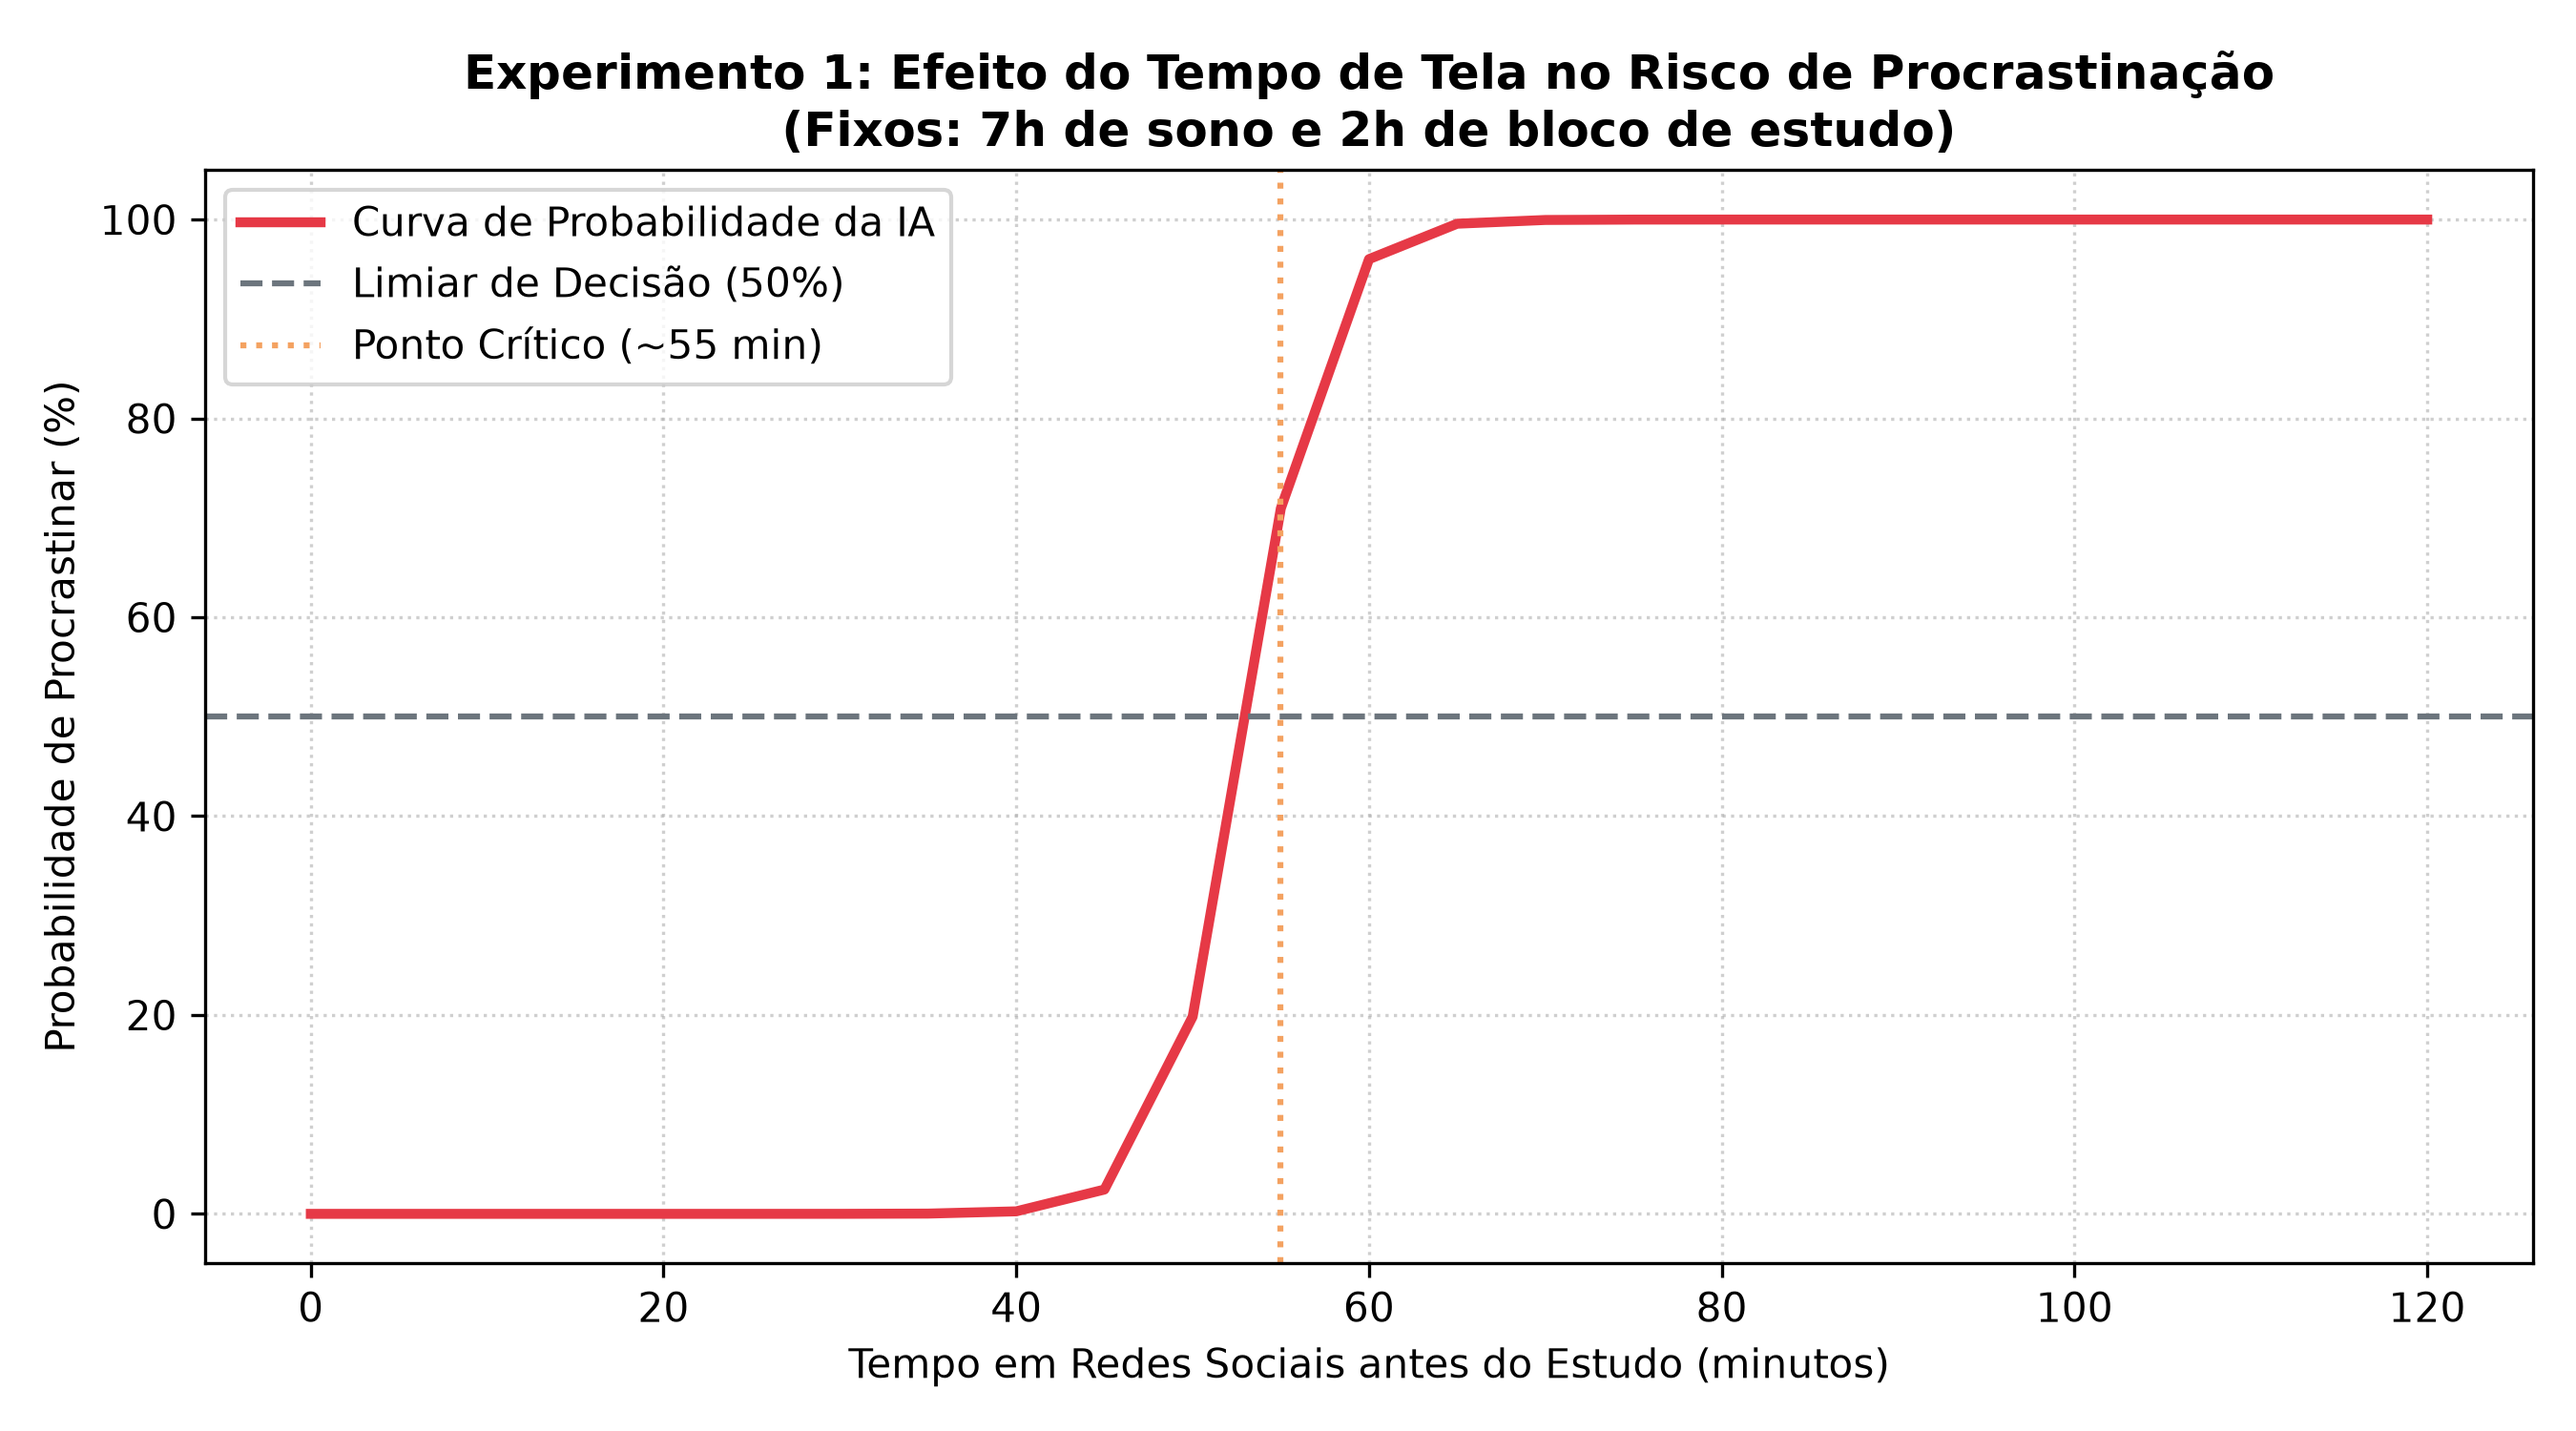
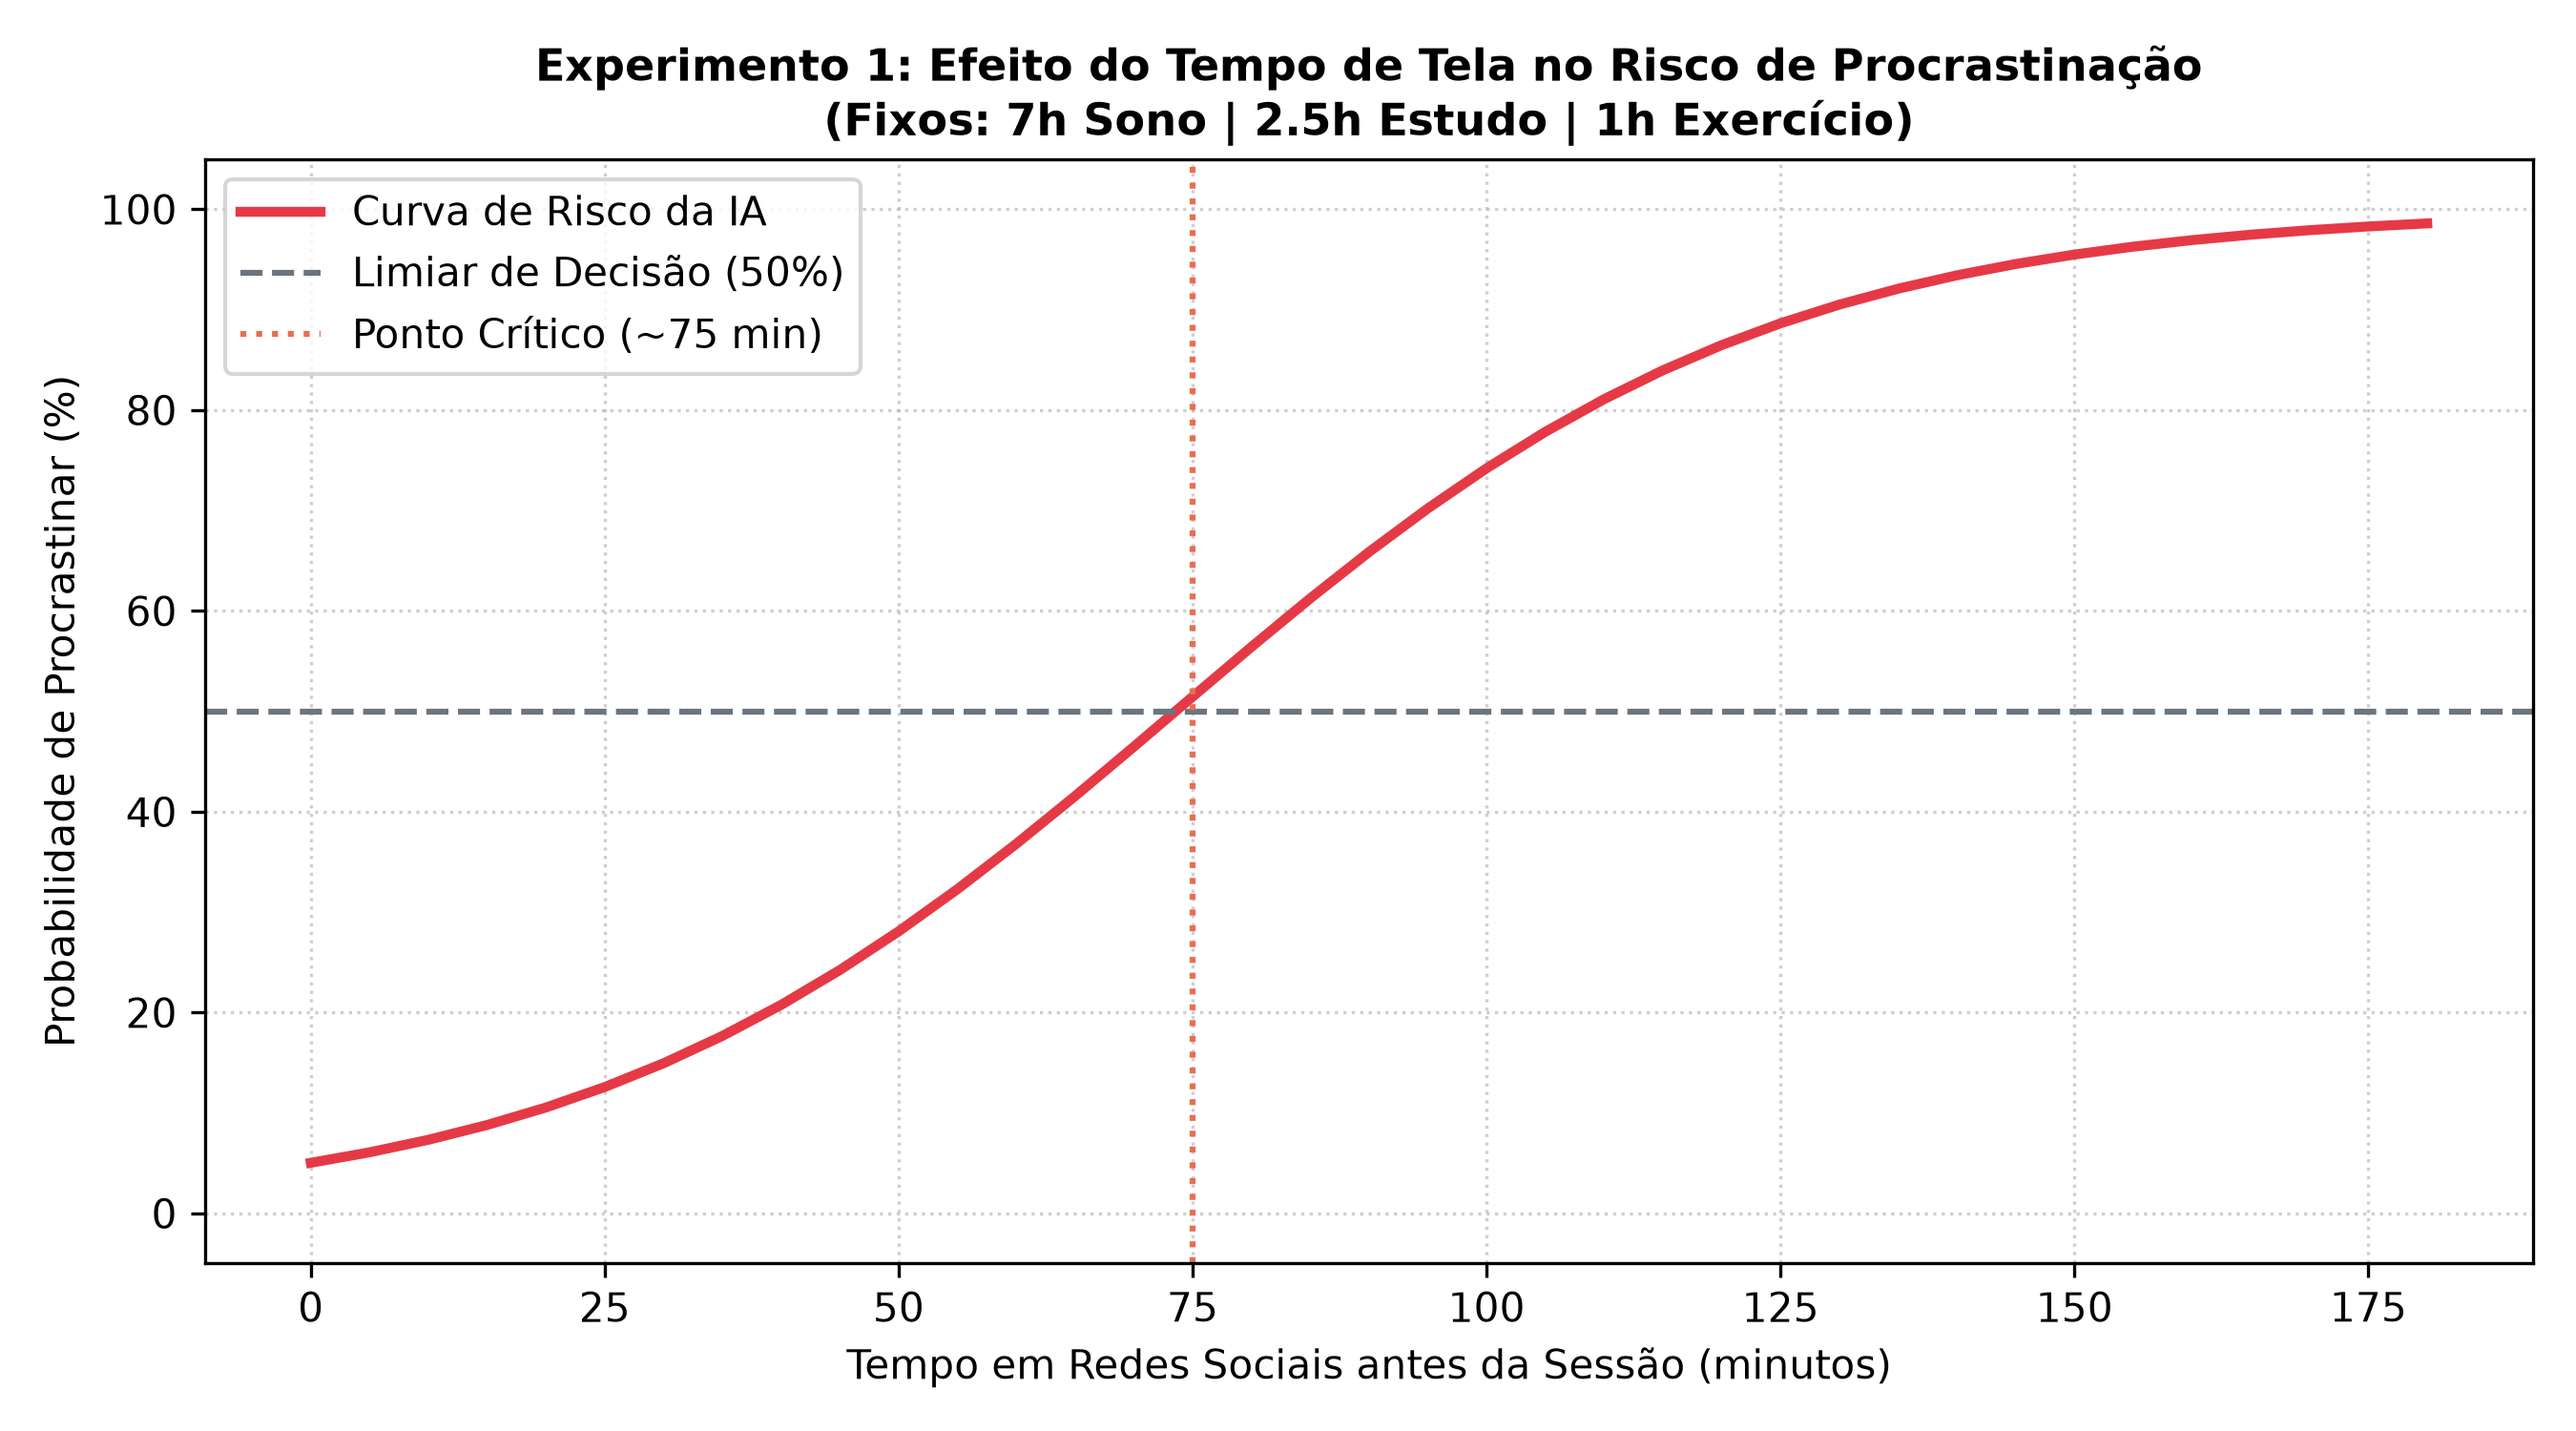
feat(passo5): recalibra experimentos controlados e gera 4 graficos analiticos

diff --git a/experimentos.py b/experimentos.py
@@ -1,8 +1,8 @@
 """
 Passo 5 - Mude Uma Coisa por Vez
-Realiza experimentos científicos controlados alterando estritamente uma única variável
-de entrada enquanto fixa as outras, provando que a IA aprendeu relações lógicas.
-Gera os gráficos que servirão de base para o Passo 6 (Explicação dos Resultados).
+Execução de experimentos científicos rigorosamente controlados:
+Altera apenas uma variável de entrada por vez mantendo todas as outras fixas.
+Gera os gráficos explicativos para o Passo 6.
 """
 
 import os
@@ -11,53 +11,44 @@ import pandas as pd
 import numpy as np
 import matplotlib.pyplot as plt
 
-# 1. Cria diretório para salvar os gráficos
 os.makedirs('graficos', exist_ok=True)
-
-# 2. Carrega o modelo treinado no Passo 4
 modelo = joblib.load('modelo_procrastinacao.joblib')
 
-print("=== Passo 5: Iniciando Experimentos Controlados ===")
+print("=" * 60)
+print("     PASSO 5: EXECUTANDO EXPERIMENTOS CONTROLADOS")
+print("=" * 60)
 
 # -------------------------------------------------------------
-# EXPERIMENTO 1: Variação exclusiva dos minutos de Redes Sociais
-# Fixos: Sono = 7.0 horas, Bloco = 2.0 horas
+# EXPERIMENTO 1: Variação exclusiva de Redes Sociais / Tela
+# Fixos: Sono = 7.0h | Estudo Planejado = 2.5h | Atividade = 1.0h
 # -------------------------------------------------------------
-minutos_range = np.arange(0, 125, 5)
+minutos_range = np.arange(0, 185, 5)
 probs_exp1 = []
 
 for m in minutos_range:
     cenario = pd.DataFrame([{
         'horas_sono': 7.0,
         'minutos_rede_social': m,
-        'bloco_planejado_horas': 2.0
+        'horas_estudo_planejado': 2.5,
+        'horas_atividade_fisica': 1.0
     }])
-    prob = modelo.predict_proba(cenario)[0][1] * 100
-    probs_exp1.append(prob)
+    p = modelo.predict_proba(cenario)[0][1] * 100
+    probs_exp1.append(p)
 
-# Encontrar ponto onde passa de 50%
-limiar_50 = None
+limiar_50_exp1 = None
 for m, p in zip(minutos_range, probs_exp1):
     if p >= 50:
-        limiar_50 = m
+        limiar_50_exp1 = m
         break
 
-print(f"[Experimento 1] Fixando Sono (7h) e Bloco (2h):")
-print(f" -> 15 min de rede social: {probs_exp1[3]:.1f}% de risco")
-print(f" -> 50 min de rede social: {probs_exp1[10]:.1f}% de risco")
-print(f" -> 80 min de rede social: {probs_exp1[16]:.1f}% de risco")
-if limiar_50:
-    print(f" -> Limiar crítico de 50% atingido aos: {limiar_50} minutos de tela.")
-
-# Gráfico do Experimento 1
 plt.figure(figsize=(9, 5))
-plt.plot(minutos_range, probs_exp1, color='#e63946', linewidth=2.5, label='Curva de Probabilidade da IA')
+plt.plot(minutos_range, probs_exp1, color='#e63946', linewidth=2.5, label='Curva de Risco da IA')
 plt.axhline(y=50, color='#6c757d', linestyle='--', label='Limiar de Decisão (50%)')
-if limiar_50:
-    plt.axvline(x=limiar_50, color='#f4a261', linestyle=':', label=f'Ponto Crítico (~{limiar_50} min)')
+if limiar_50_exp1:
+    plt.axvline(x=limiar_50_exp1, color='#e76f51', linestyle=':', label=f'Ponto Crítico (~{limiar_50_exp1} min)')
 
-plt.title('Experimento 1: Efeito do Tempo de Tela no Risco de Procrastinação\n(Fixos: 7h de sono e 2h de bloco de estudo)', fontsize=12, fontweight='bold')
-plt.xlabel('Tempo em Redes Sociais antes do Estudo (minutos)', fontsize=10)
+plt.title('Experimento 1: Efeito do Tempo de Tela no Risco de Procrastinação\n(Fixos: 7h Sono | 2.5h Estudo | 1h Exercício)', fontsize=11, fontweight='bold')
+plt.xlabel('Tempo em Redes Sociais antes da Sessão (minutos)', fontsize=10)
 plt.ylabel('Probabilidade de Procrastinar (%)', fontsize=10)
 plt.ylim(-5, 105)
 plt.grid(True, linestyle=':', alpha=0.6)
@@ -67,31 +58,26 @@ plt.savefig('graficos/experimento1_tempo_tela.png', dpi=300)
 plt.close()
 
 # -------------------------------------------------------------
-# EXPERIMENTO 2: Variação exclusiva das Horas de Sono
-# Fixos: Redes Sociais = 55 min, Bloco = 2.5 horas
+# EXPERIMENTO 2: Variação exclusiva de Horas de Sono
+# Fixos: Redes = 60 min | Estudo Planejado = 3.0h | Atividade = 0.5h
 # -------------------------------------------------------------
-sono_range = np.linspace(4.0, 9.0, 30)
+sono_range = np.linspace(4.0, 9.5, 40)
 probs_exp2 = []
 
 for s in sono_range:
     cenario = pd.DataFrame([{
         'horas_sono': s,
-        'minutos_rede_social': 55,
-        'bloco_planejado_horas': 2.5
+        'minutos_rede_social': 60,
+        'horas_estudo_planejado': 3.0,
+        'horas_atividade_fisica': 0.5
     }])
-    prob = modelo.predict_proba(cenario)[0][1] * 100
-    probs_exp2.append(prob)
+    p = modelo.predict_proba(cenario)[0][1] * 100
+    probs_exp2.append(p)
 
-print(f"\n[Experimento 2] Fixando Redes (55 min) e Bloco (2.5h):")
-print(f" -> 4.5h sono: {probs_exp2[3]:.1f}% de risco")
-print(f" -> 7.0h sono: {probs_exp2[18]:.1f}% de risco")
-print(f" -> 8.5h sono: {probs_exp2[27]:.1f}% de risco")
-
-# Gráfico do Experimento 2
 plt.figure(figsize=(9, 5))
-plt.plot(sono_range, probs_exp2, color='#2a9d8f', linewidth=2.5, label='Curva de Probabilidade da IA')
+plt.plot(sono_range, probs_exp2, color='#2a9d8f', linewidth=2.5, label='Curva de Risco da IA')
 plt.axhline(y=50, color='#6c757d', linestyle='--', label='Limiar de Decisão (50%)')
-plt.title('Experimento 2: Efeito Protetor do Sono contra a Procrastinação\n(Fixos: 55 min de rede social e 2.5h de bloco)', fontsize=12, fontweight='bold')
+plt.title('Experimento 2: Efeito Protetor do Sono contra a Procrastinação\n(Fixos: 60 min Redes | 3h Estudo | 0.5h Exercício)', fontsize=11, fontweight='bold')
 plt.xlabel('Horas de Sono na Noite Anterior (horas)', fontsize=10)
 plt.ylabel('Probabilidade de Procrastinar (%)', fontsize=10)
 plt.ylim(-5, 105)
@@ -102,29 +88,58 @@ plt.savefig('graficos/experimento2_horas_sono.png', dpi=300)
 plt.close()
 
 # -------------------------------------------------------------
-# GRÁFICO 3: Importância dos Coeficientes / Pesos do Modelo
+# EXPERIMENTO 3: Variação da Carga de Estudo Planejada (Sobrecarga)
+# Fixos: Sono = 7.0h | Redes = 45 min | Atividade = 0.5h
 # -------------------------------------------------------------
+estudo_range = np.linspace(1.0, 7.0, 30)
+probs_exp3 = []
+
+for e in estudo_range:
+    cenario = pd.DataFrame([{
+        'horas_sono': 7.0,
+        'minutos_rede_social': 45,
+        'horas_estudo_planejado': e,
+        'horas_atividade_fisica': 0.5
+    }])
+    p = modelo.predict_proba(cenario)[0][1] * 100
+    probs_exp3.append(p)
+
+plt.figure(figsize=(9, 5))
+plt.plot(estudo_range, probs_exp3, color='#f4a261', linewidth=2.5, label='Curva de Risco da IA')
+plt.axhline(y=50, color='#6c757d', linestyle='--', label='Limiar de Decisão (50%)')
+plt.title('Experimento 3: Sobrecarga Mental - Duração do Bloco sem Pausas\n(Fixos: 7h Sono | 45 min Redes | 0.5h Exercício)', fontsize=11, fontweight='bold')
+plt.xlabel('Duração do Bloco de Estudo Planejado (horas contínuas)', fontsize=10)
+plt.ylabel('Probabilidade de Procrastinar (%)', fontsize=10)
+plt.ylim(-5, 105)
+plt.grid(True, linestyle=':', alpha=0.6)
+plt.legend(loc='upper left')
+plt.tight_layout()
+plt.savefig('graficos/experimento3_sobrecarga_estudo.png', dpi=300)
+plt.close()
+
+# -------------------------------------------------------------
+# GRÁFICO 4: Comparativo de Coeficientes (Pesos Aprendidos)
+# -------------------------------------------------------------
+nomes_features = ['Horas de Sono', 'Minutos de Rede Social', 'Estudo Planejado (h)', 'Atividade Física (h)']
 coefs = modelo.coef_[0]
-features = ['Horas de Sono', 'Minutos de Rede Social', 'Duração do Bloco (h)']
 cores = ['#2a9d8f' if c < 0 else '#e63946' for c in coefs]
 
-plt.figure(figsize=(8, 4.5))
-bars = plt.barh(features, coefs, color=cores)
+plt.figure(figsize=(9, 5))
+bars = plt.barh(nomes_features, coefs, color=cores)
 plt.axvline(0, color='black', linewidth=0.8, linestyle='--')
-plt.title('Passo 6: Pesos Aprendidos pelo Modelo (Coeficientes da Regressão)', fontsize=12, fontweight='bold')
-plt.xlabel('Magnitude e Direção do Coeficiente (Verde = Reduz Risco | Vermelho = Aumenta Risco)', fontsize=9)
+plt.title('Passo 6: Pesos Aprendidos pela Regressão Logística\n(Verde = Protege contra Procrastinação | Vermelho = Aumenta Risco)', fontsize=11, fontweight='bold')
+plt.xlabel('Magnitude do Coeficiente Linear', fontsize=10)
+
 for bar in bars:
-    width = bar.get_width()
-    ha = 'left' if width >= 0 else 'right'
-    plt.text(width + (0.01 if width >= 0 else -0.01), bar.get_y() + bar.get_height()/2, f'{width:.3f}', 
-             va='center', ha=ha, fontsize=10, fontweight='bold')
+    w = bar.get_width()
+    pos_x = w + (0.02 if w >= 0 else -0.02)
+    ha = 'left' if w >= 0 else 'right'
+    plt.text(pos_x, bar.get_y() + bar.get_height()/2, f'{w:+.4f}', va='center', ha=ha, fontsize=10, fontweight='bold')
 
 plt.tight_layout()
 plt.savefig('graficos/importancia_fatores.png', dpi=300)
 plt.close()
 
-print("\n=== Todos os experimentos foram concluídos com sucesso! ===")
-print("Gráficos salvos em 'graficos/':")
-print("  - experimento1_tempo_tela.png")
-print("  - experimento2_horas_sono.png")
-print("  - importancia_fatores.png")
+print(f"Experimento 1 concluído. Ponto crítico de tela: ~{limiar_50_exp1} minutos.")
+print("Todos os gráficos salvos com sucesso na pasta 'graficos/'.")
+print("=" * 60)
